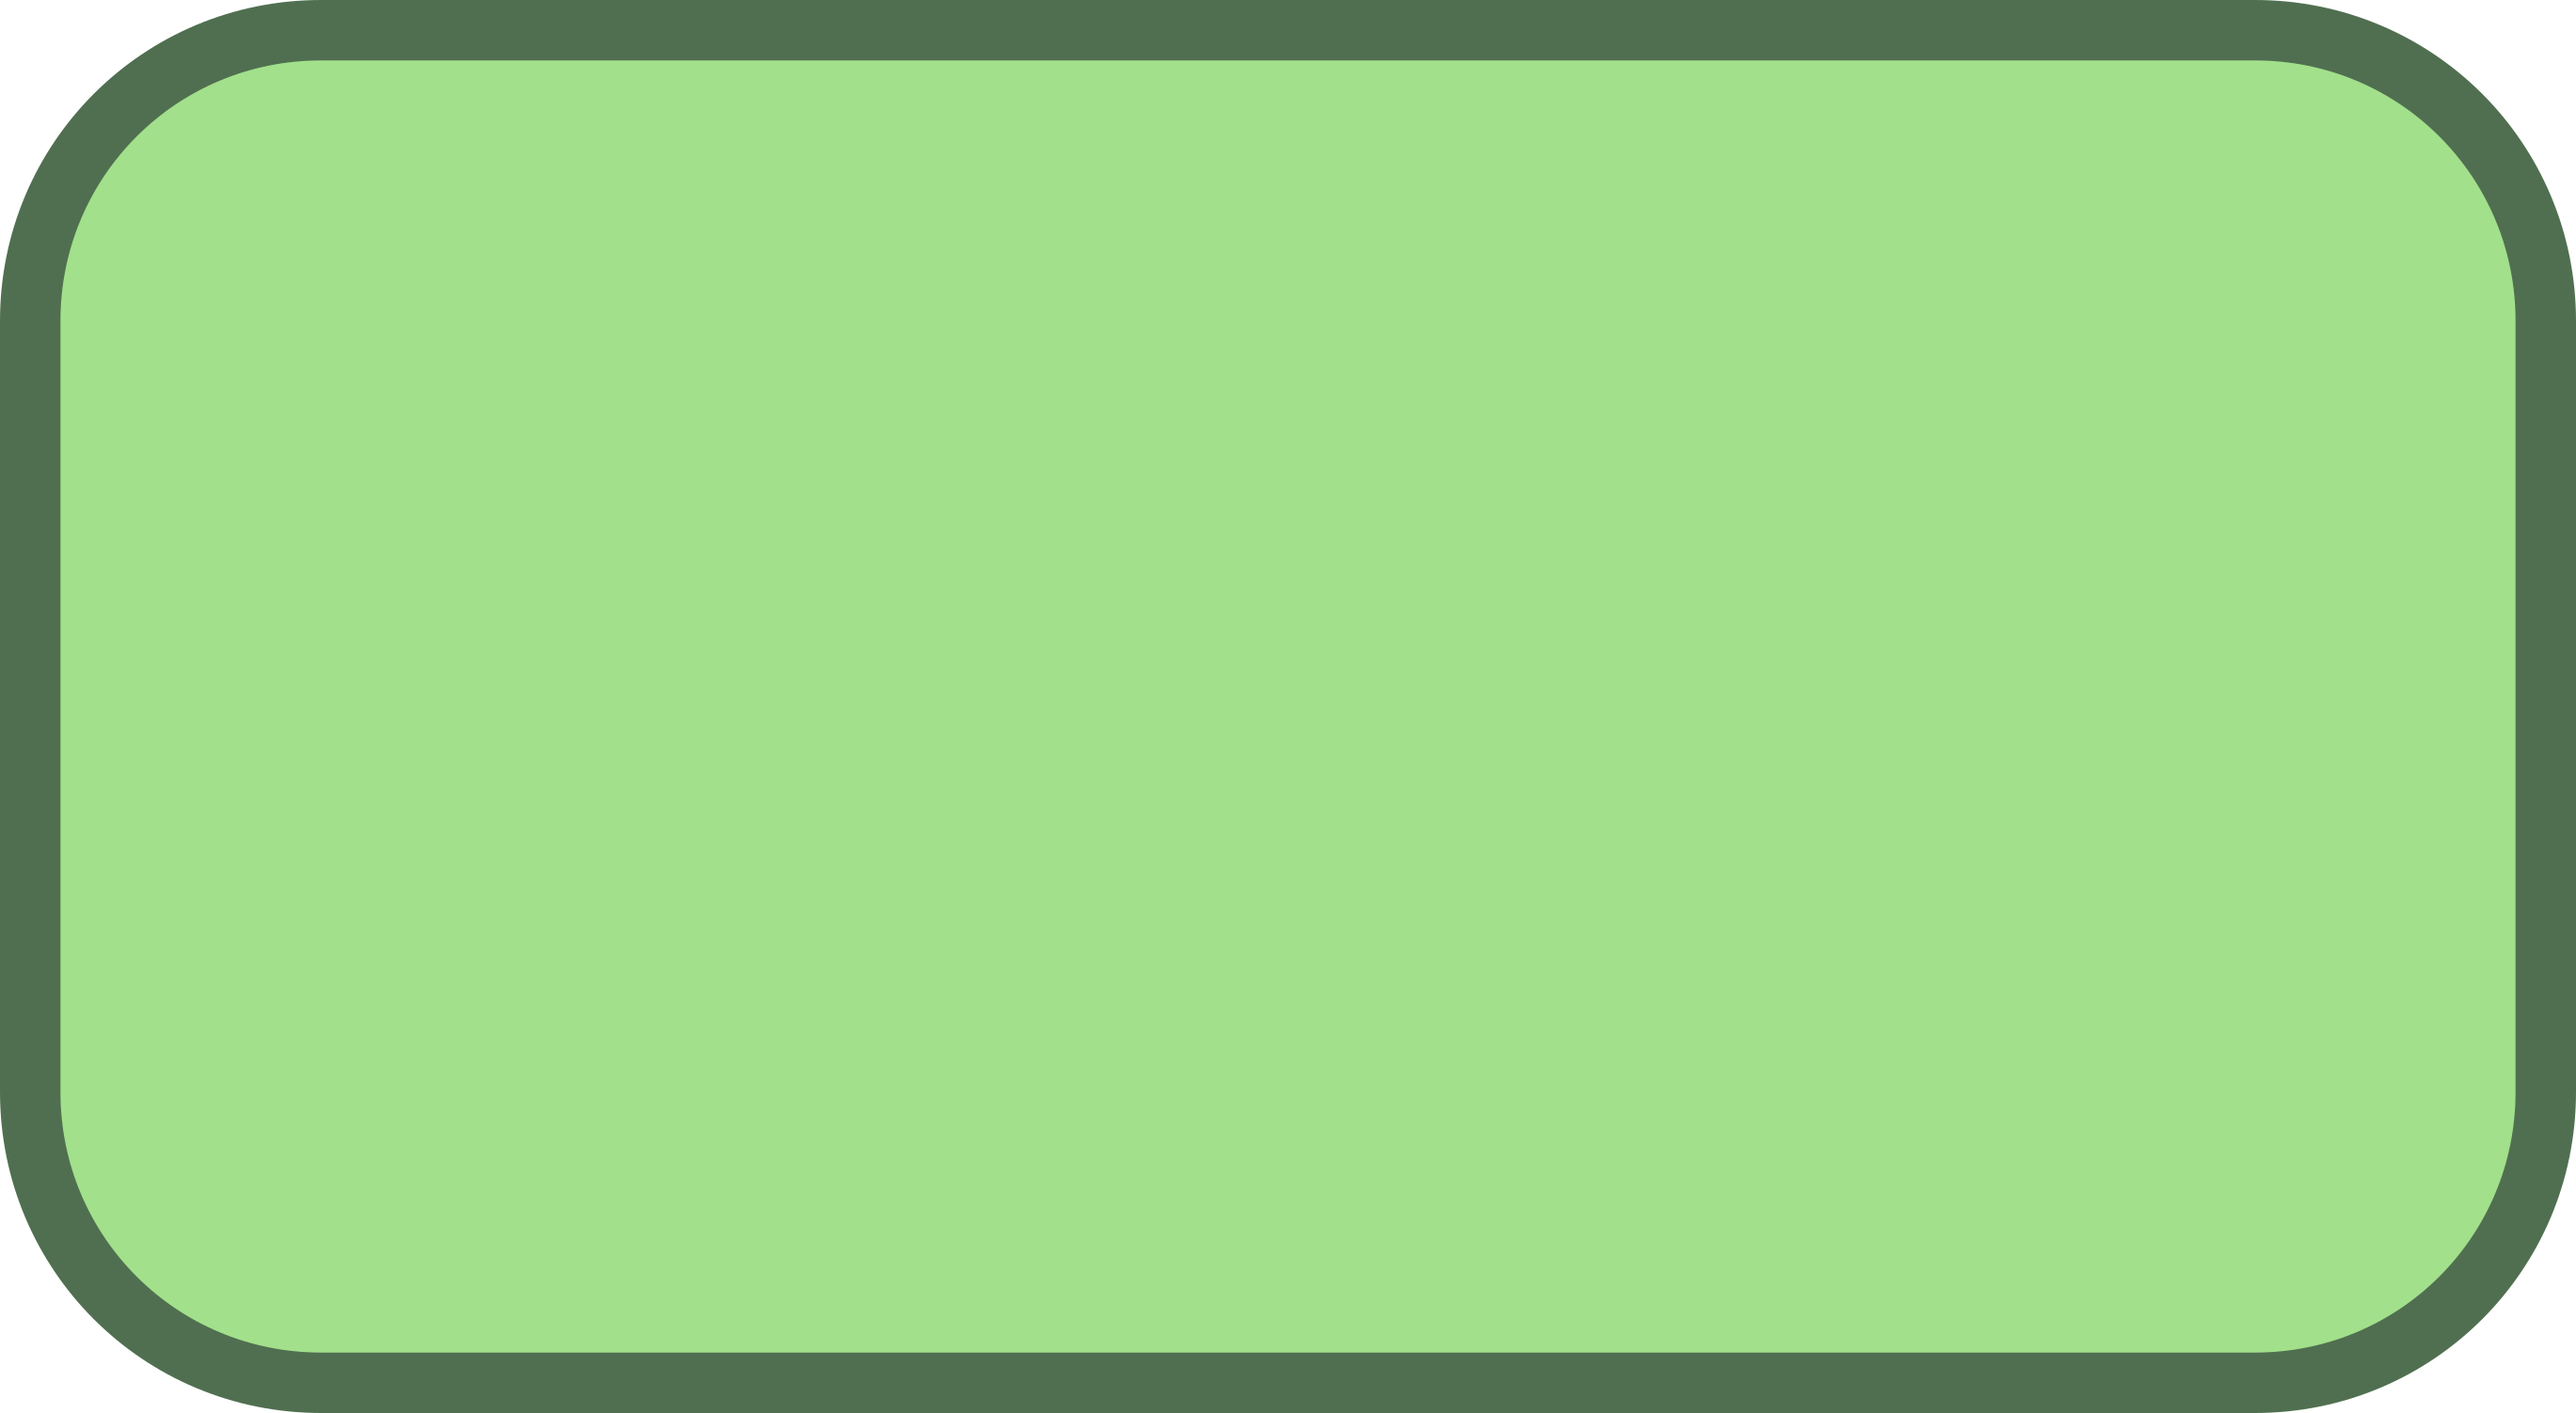
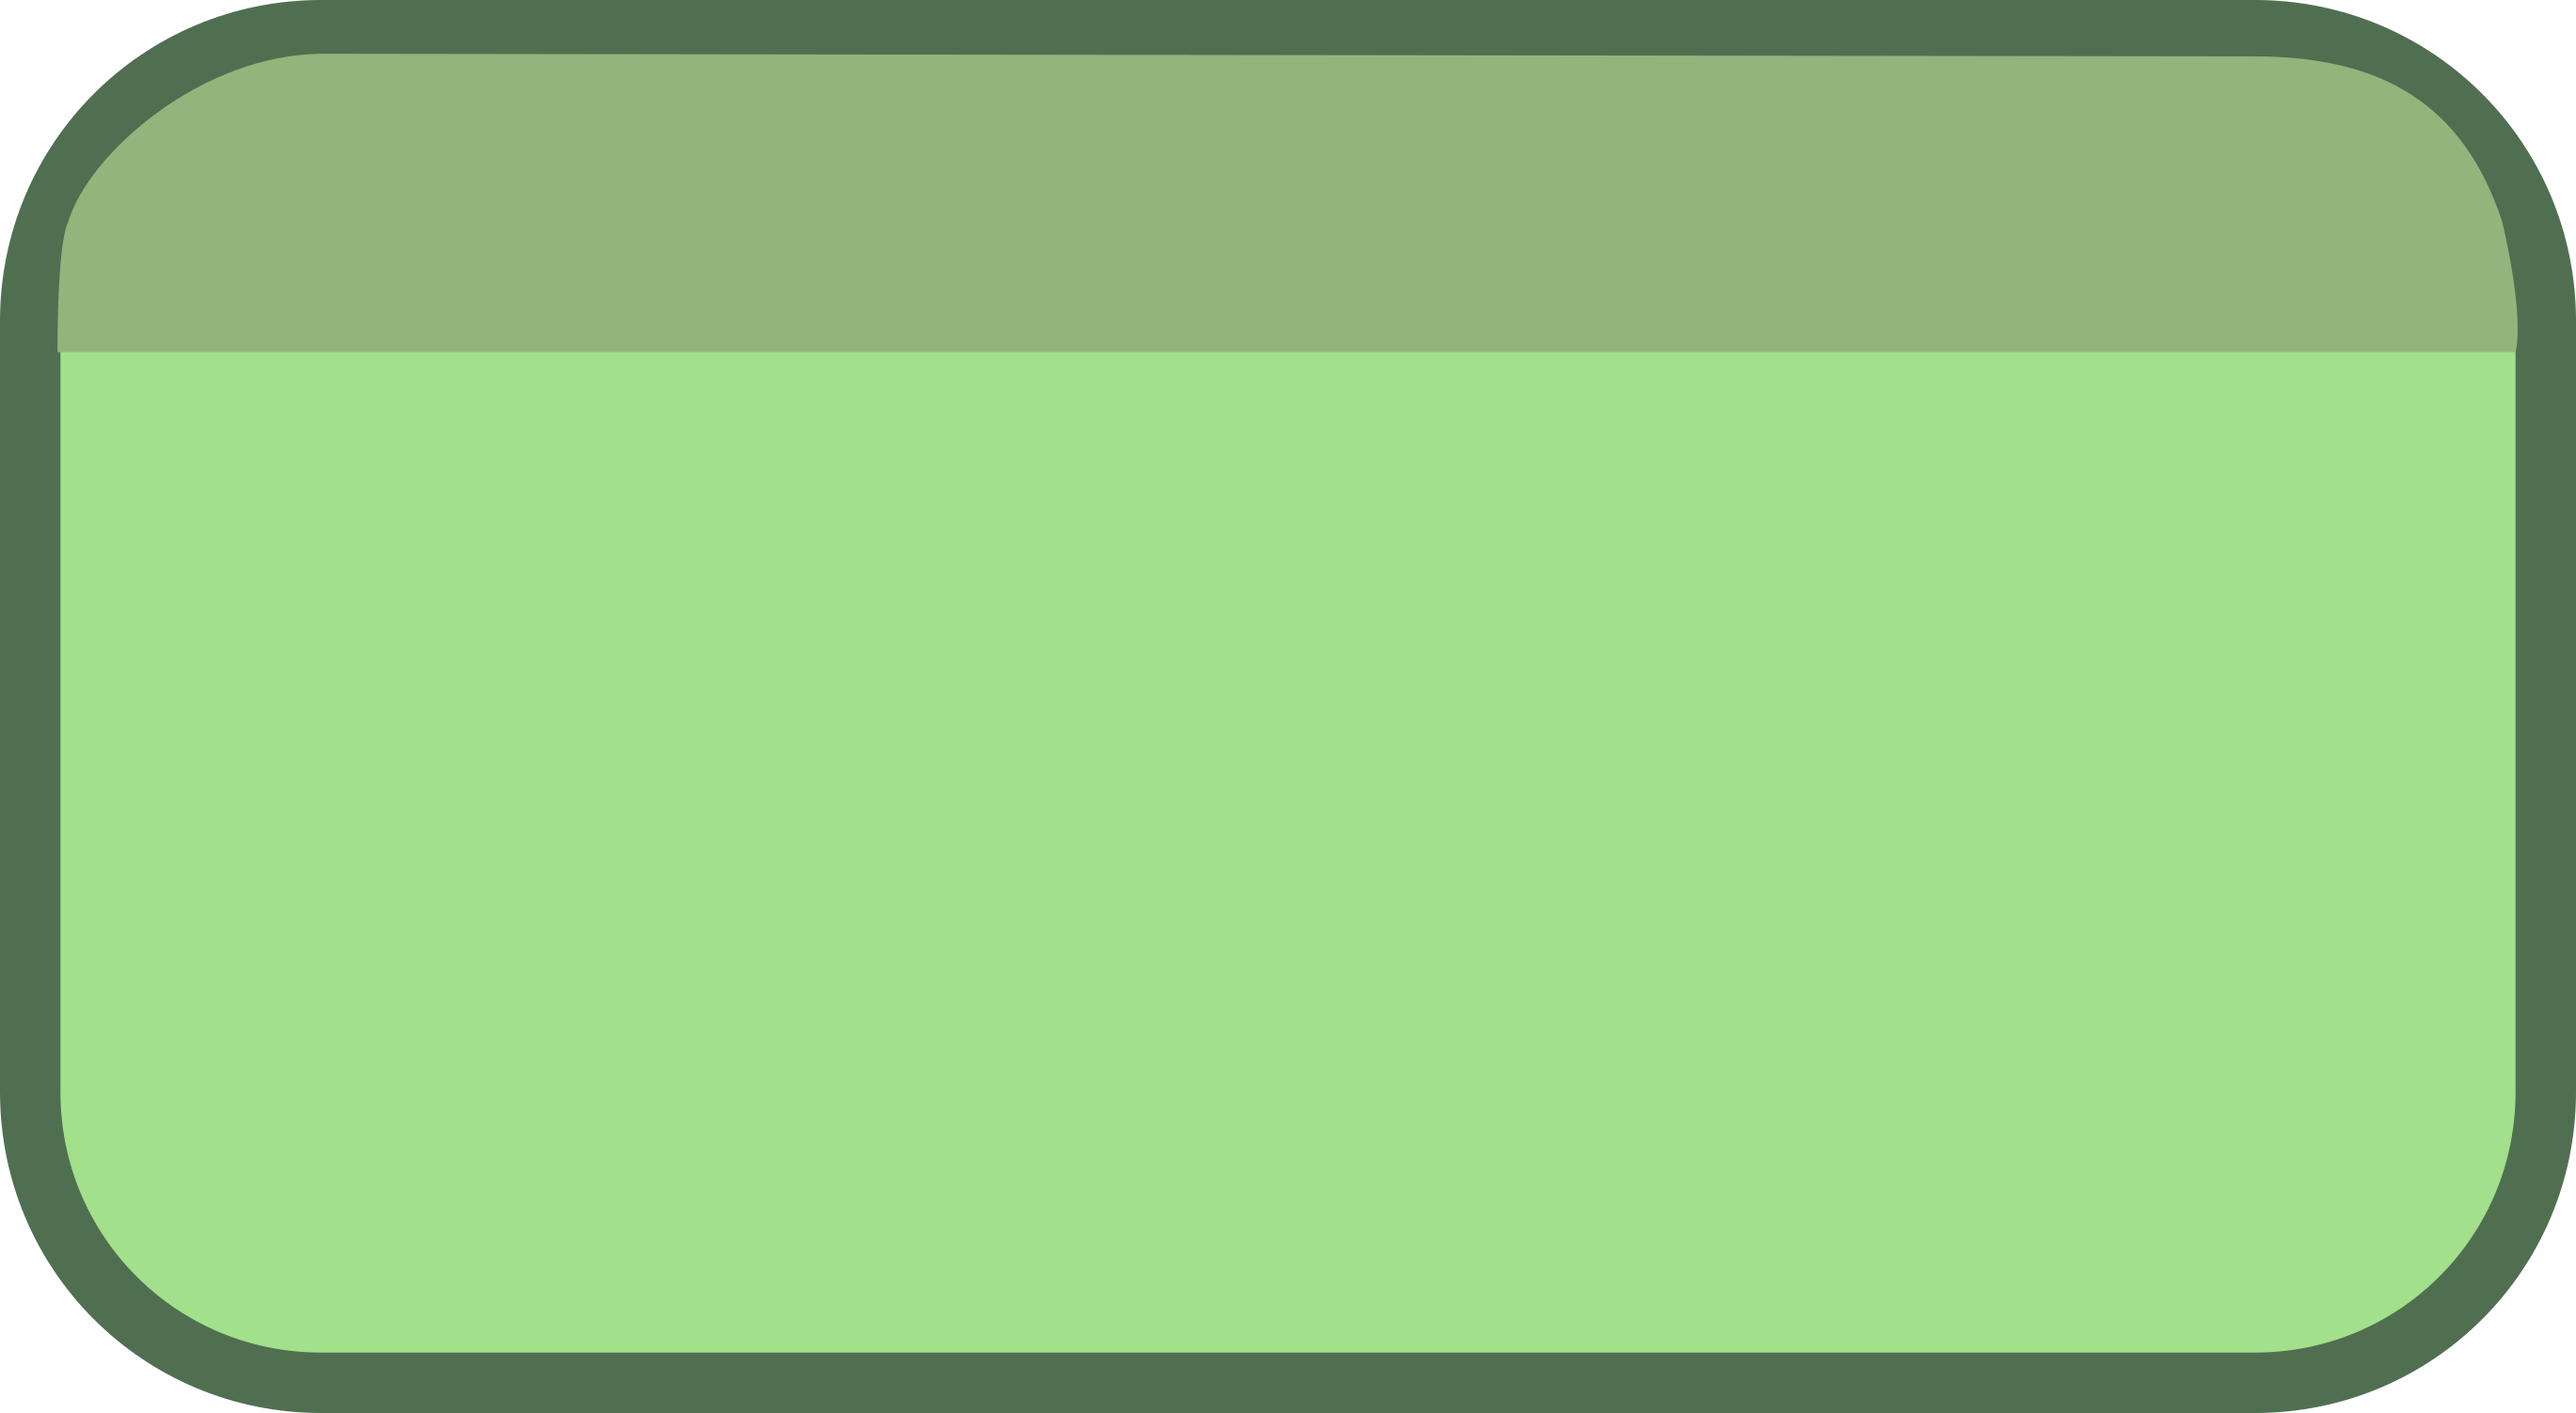
Cards design

Changed region(s): [[0.0, 0.0306, 0.9927, 0.2754]]

diff --git a/Remote/card.cpp b/Remote/card.cpp
@@ -1,6 +1,9 @@
 #include "card.h"
 
 #include <QPainter>
+#include <QVBoxLayout>
+#include <QHBoxLayout>
+#include <QComboBox>
 
 Card::Card(QWidget *parent, data d)
     : QWidget{parent}, data_{d}
@@ -9,6 +12,50 @@ Card::Card(QWidget *parent, data d)
     if (backgroundPixmap.isNull()) {
         qWarning("PNG image failed to load");
     }
+
+    QVBoxLayout *main_layout = new QVBoxLayout(this);
+    setLayout(main_layout);
+
+    QHBoxLayout *dropdown_layout = new QHBoxLayout(this);
+    main_layout->addLayout(dropdown_layout);
+
+    QHBoxLayout *image_layout = new QHBoxLayout(this);
+    main_layout->addLayout(image_layout);
+
+    QString dropdown_stylesheet = R"(
+    /* Le QComboBox lui‑même */
+    QComboBox {
+        background-color: white;
+        color: black;
+    }
+
+    QComboBox QAbstractItemView {
+        background-color: white;
+        color: black;
+        selection-color: black;
+    }
+    )";
+
+    QComboBox *gesture_dropdown = new QComboBox(this);
+    gesture_dropdown->setStyleSheet(dropdown_stylesheet);
+    gesture_dropdown->setPlaceholderText("Action");
+    QComboBox *action_dropdown = new QComboBox(this);
+    action_dropdown->setStyleSheet(dropdown_stylesheet);
+    action_dropdown->setPlaceholderText("Gesture");
+
+    QStringList gestures = {"Leftward swipe", "Rightward swipe", "Downward swipe", "Upward swipe"};
+    QStringList actions = {"Play / Pause", "Mute / Unmute", "Go backward",
+                           "Go forward", "Previous track", "Next track", "Screenshot"};
+    gesture_dropdown->addItems(gestures);
+    action_dropdown->addItems(actions);
+
+    dropdown_layout->addWidget(gesture_dropdown);
+    dropdown_layout->addWidget(action_dropdown);
+    dropdown_layout->setSpacing(25);
+    dropdown_layout->setContentsMargins(20, 3, 20, 3);
+
+    main_layout->setStretch(0, 1);
+    main_layout->setStretch(1, 4);
 
     float aspectRatio = float(backgroundPixmap.height()) / backgroundPixmap.width();
 

diff --git a/Remote/card.h b/Remote/card.h
@@ -21,6 +21,9 @@ private:
     QPixmap backgroundPixmap;
     data data_;
 
+    QWidget gestureImage;
+    QWidget actionImage;
+
     void paintEvent(QPaintEvent*) override;
 signals:
 };
